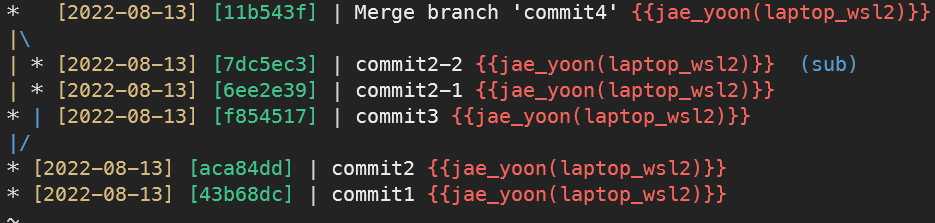
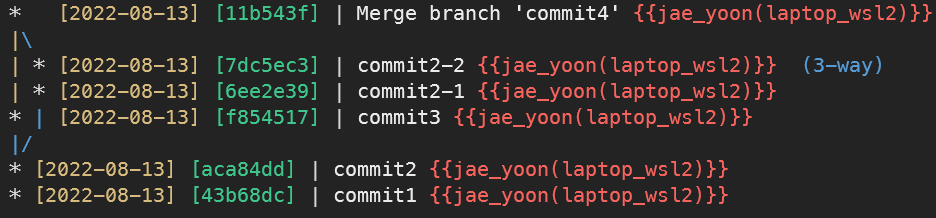
git : codding_apple 03 내용추가

diff --git a/Technique/git/coding_apple/README.md b/Technique/git/coding_apple/README.md
@@ -138,6 +138,9 @@ git push origin --delete 브랜치명   # 브랜치 삭제 (원격저장소)
 ```bash
 git branch -d 브랜치명  # merge 완료된 브랜치 삭제
 git branch -D 브랜치명  # merge 안한 브랜치 삭제
+# 깔끔하게 그 브랜치에서 작업한거 싹 날라감
+
+git branch -m 변경전 변경후  # 브랜치명 변경
 ```
 
 <br>
@@ -265,3 +268,70 @@ git commit -m "메세지"
 - 예를 들어, 안중요한 잔챙이 브랜치는 **squash**하세요.
 - feature/develop 브랜치는 **3-way merge**하세요.
 - 혼자서 할 때는 대충 쓰세요.
+
+<br>
+
+### git merge 실습
+
+<br>
+
+실습과정에서, branch를 만드는 시점은 중요하다. 예를 들어, commit2에서 git branch를 이용하며 브랜치를 생성하면 commit2가 시작지점이 되는 것이니까. 이를 잘 이해하며 실습을 시작한다.
+
+#### 3-way merge 실습
+
+
+<p align="center"><img src="./img/img14.png"></img></p>
+
+- 분기되었던 모습, 즉, merge된 흔적이 남아있다.
+- `git branch -d 3-way`로 브랜치를 지워도 그래프 모양으로 나타난다.
+- 3-way merge는 각각의 브랜치가 합쳐져서 새로운걸 만들어내는 형태라 mergetool이 따로 열렸다. 그래서 Merge branch 'commit4'와 같이 커밋을 남겼다.
+
+<br>
+
+#### fast-forward 실습
+
+<p align="center"><img src="./img/img15.png"></img></p>
+
+- fast-forward 방식은 master 브랜치에 새로운 commit이 없으니까 master 브랜치의 HEAD만 fastforward 브랜치로 바뀐 모습이다.
+- 따라서, merge 흔적이 남아있지 않다.
+- HEAD만 바뀌는 형태라 mergetool이 따로 열리지 않았다.
+- HEAD가 `(HEAD -> master, fast)` 이런식으로 나타났다. 
+
+<br>
+
+#### rebase and fast-forward 실습
+
+<p align="center"><img src="./img/img16.png"></img></p>
+
+- rebase 하기 전 모습
+
+<p align="center"><img src="./img/img17.png"></img></p>
+
+- rebase 이후 모습
+- 그래프에서 분기가 사라짐을 확인 가능하다.
+
+<p align="center"><img src="./img/img18.png"></img></p>
+
+- rebase 이후 fast-forward 한 모습
+- fast-forward 방식과 동일하게 HEAD만 바뀐 모습이다.
+
+<br>
+
+#### squash and merge 실습
+
+<p align="center"><img src="./img/img19.png"></img></p>
+
+- squash 하기 이전 모습
+
+<p align="center"><img src="./img/img20.png"></img></p>
+
+- squash를 하고 나서 squash는 되었지만, HEAD는 업데이트가 되지 않았다고 한다. commit을 추가적으로 하고 log를 확인해보면
+
+<p align="center"><img src="./img/img21.png"></img></p>
+
+- commit4가 정상적으로 생성된 모습이다. 하지만 squash 브랜치는 남아있다. 그래서 `git branch -D squash`로 브랜치를 삭제해보면
+
+<p align="center"><img src="./img/img22.png"></img></p>
+
+- 이와 같이 깔끔하게 merge 흔적이 사라진 모습이다.
+- squash로 merge하면 브랜치의 내용이 순간이동하는 개념이라 squash 브랜치는 아직 merge 되지 않았다고 나왔다. 그래서 `git branch -d squash`가 아닌 `git branch -D squash`로 삭제했다.
